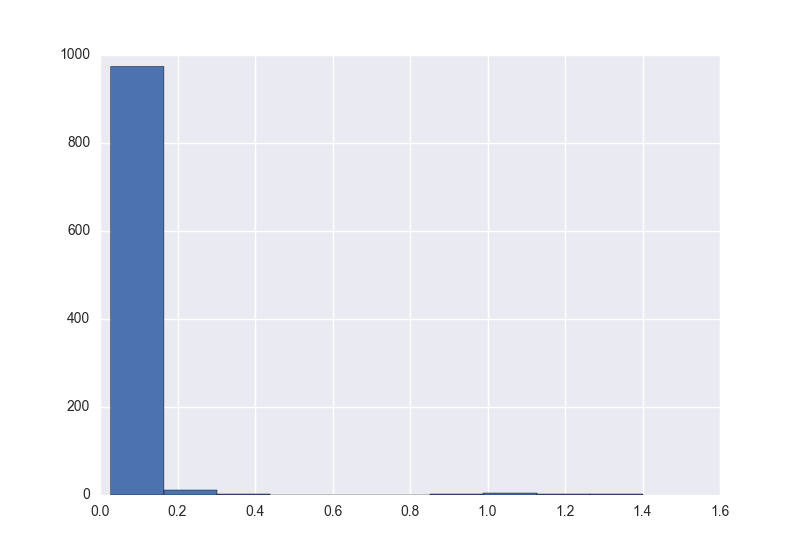
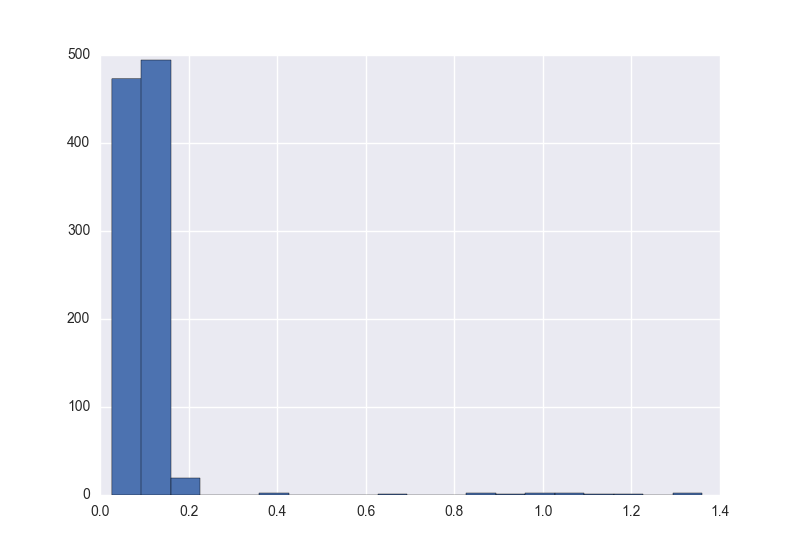
Added a better profiling

diff --git a/profiler.py b/profiler.py
@@ -20,6 +20,7 @@ import todo_tools
 
 def main():
     args = get_args()
+    olddir = os.getcwd()
 
     os.chdir(args.repo)
 
@@ -41,7 +42,9 @@ def main():
 
     sys.stdout = actualstdout
 
-    plt.hist(times)
+    os.chdir(olddir)
+
+    plt.hist(times, bins=20)
     plt.savefig('./profile_hist.png')
 
 
